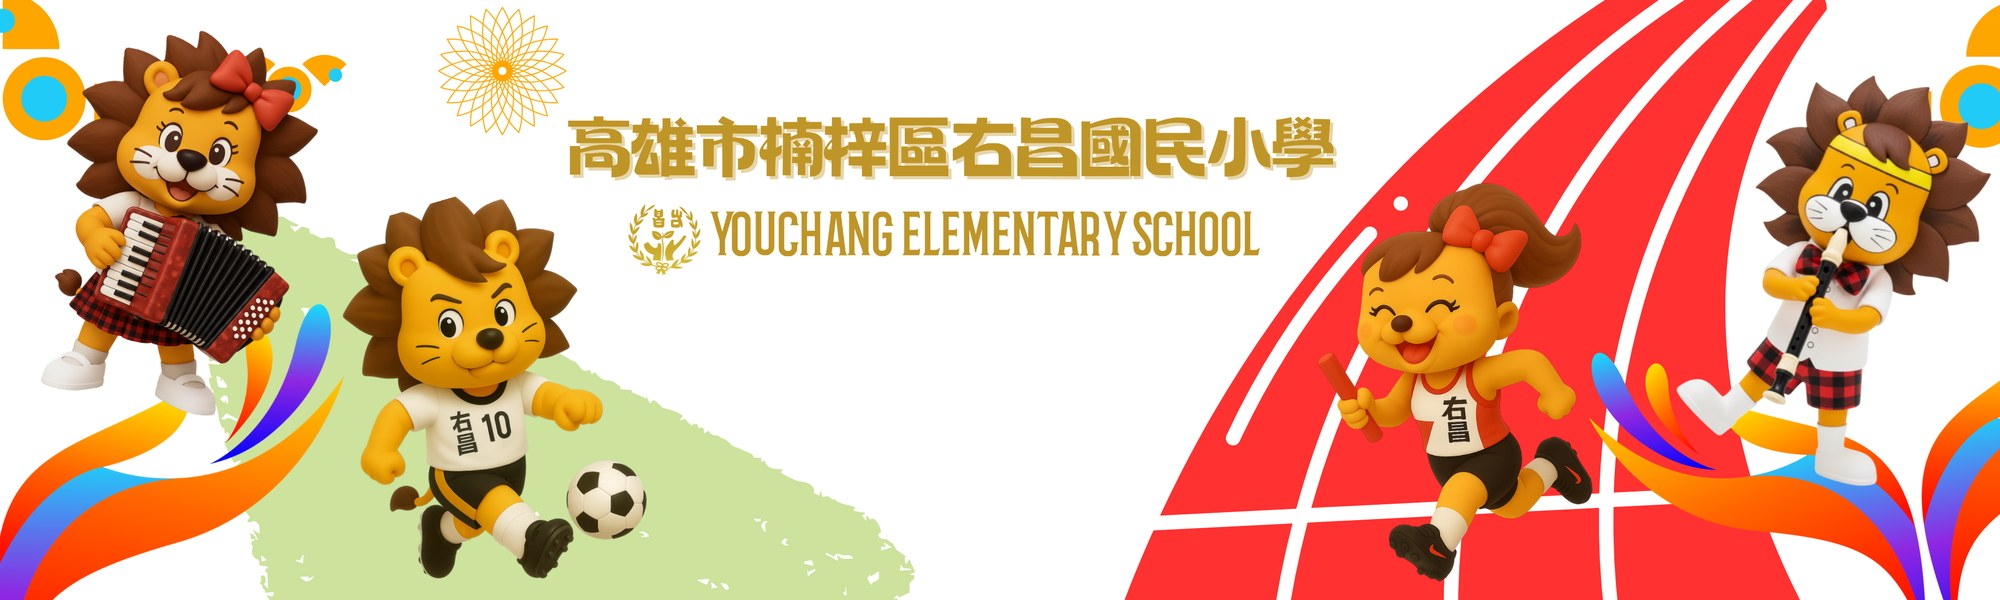
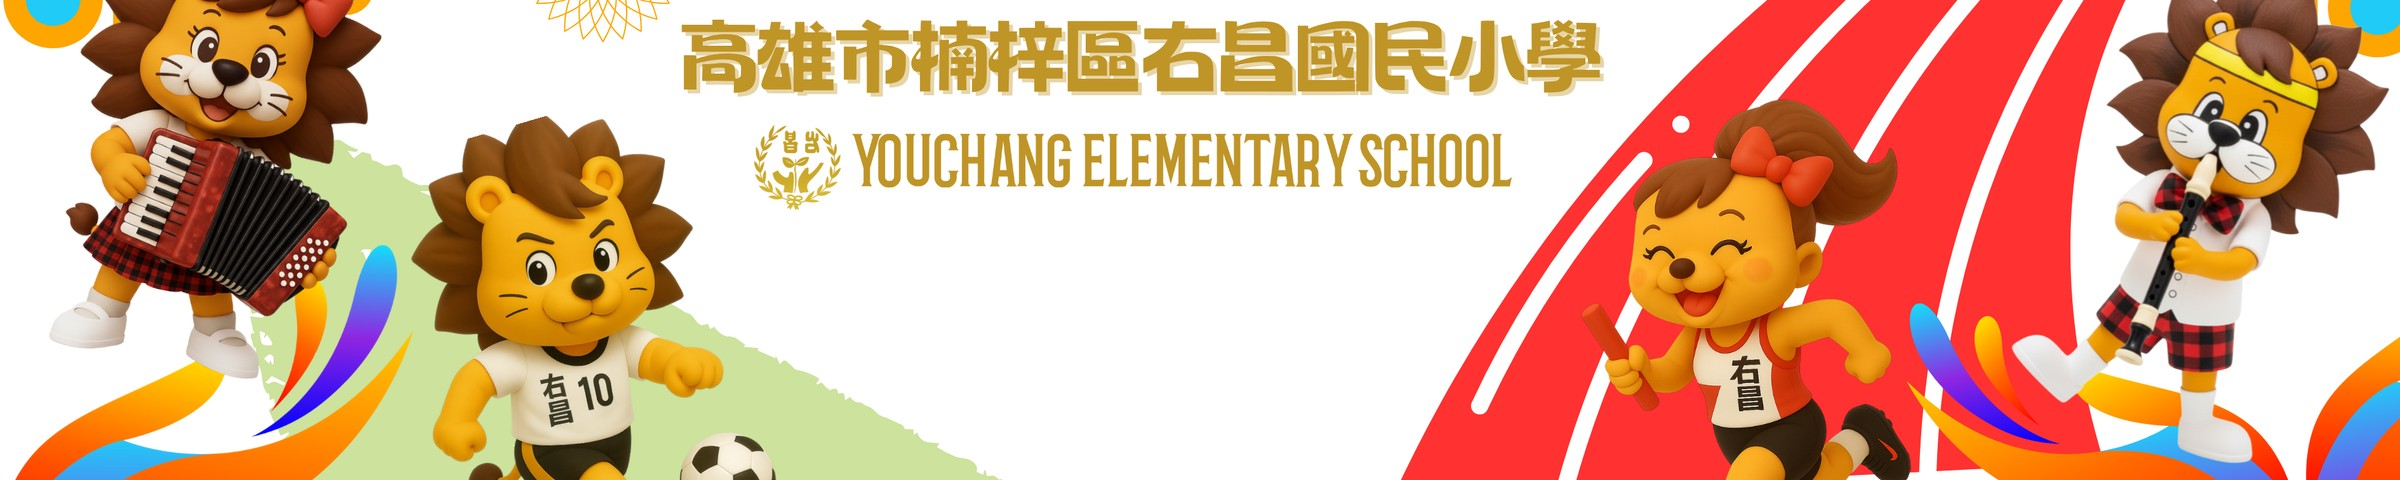
換用專為網頁設計的橫幅圖（2400x480，5:1比例），CSS比例改為完全比照，滿版且完整顯示不裁切

diff --git a/css/style.css b/css/style.css
@@ -33,9 +33,8 @@ h1, h2, h3 { line-height: 1.3; }
 .banner {
   position: relative;
   width: 100%;
-  height: clamp(140px, 20vw, 300px);   /* 滿版寬度、高度壓低 */
-  /* 對齊偏上，保留校名，裁切點落在下方緞帶處 */
-  background: #fff url("../assets/banner.jpg") center 32% / cover no-repeat;
+  aspect-ratio: 2400 / 480;             /* 專用網頁橫幅比例 5:1，滿版且完整顯示不裁切 */
+  background: #fff url("../assets/banner.jpg") center/cover no-repeat;
 }
 .banner-text {
   position: absolute; left: 0; right: 0; bottom: 0;
